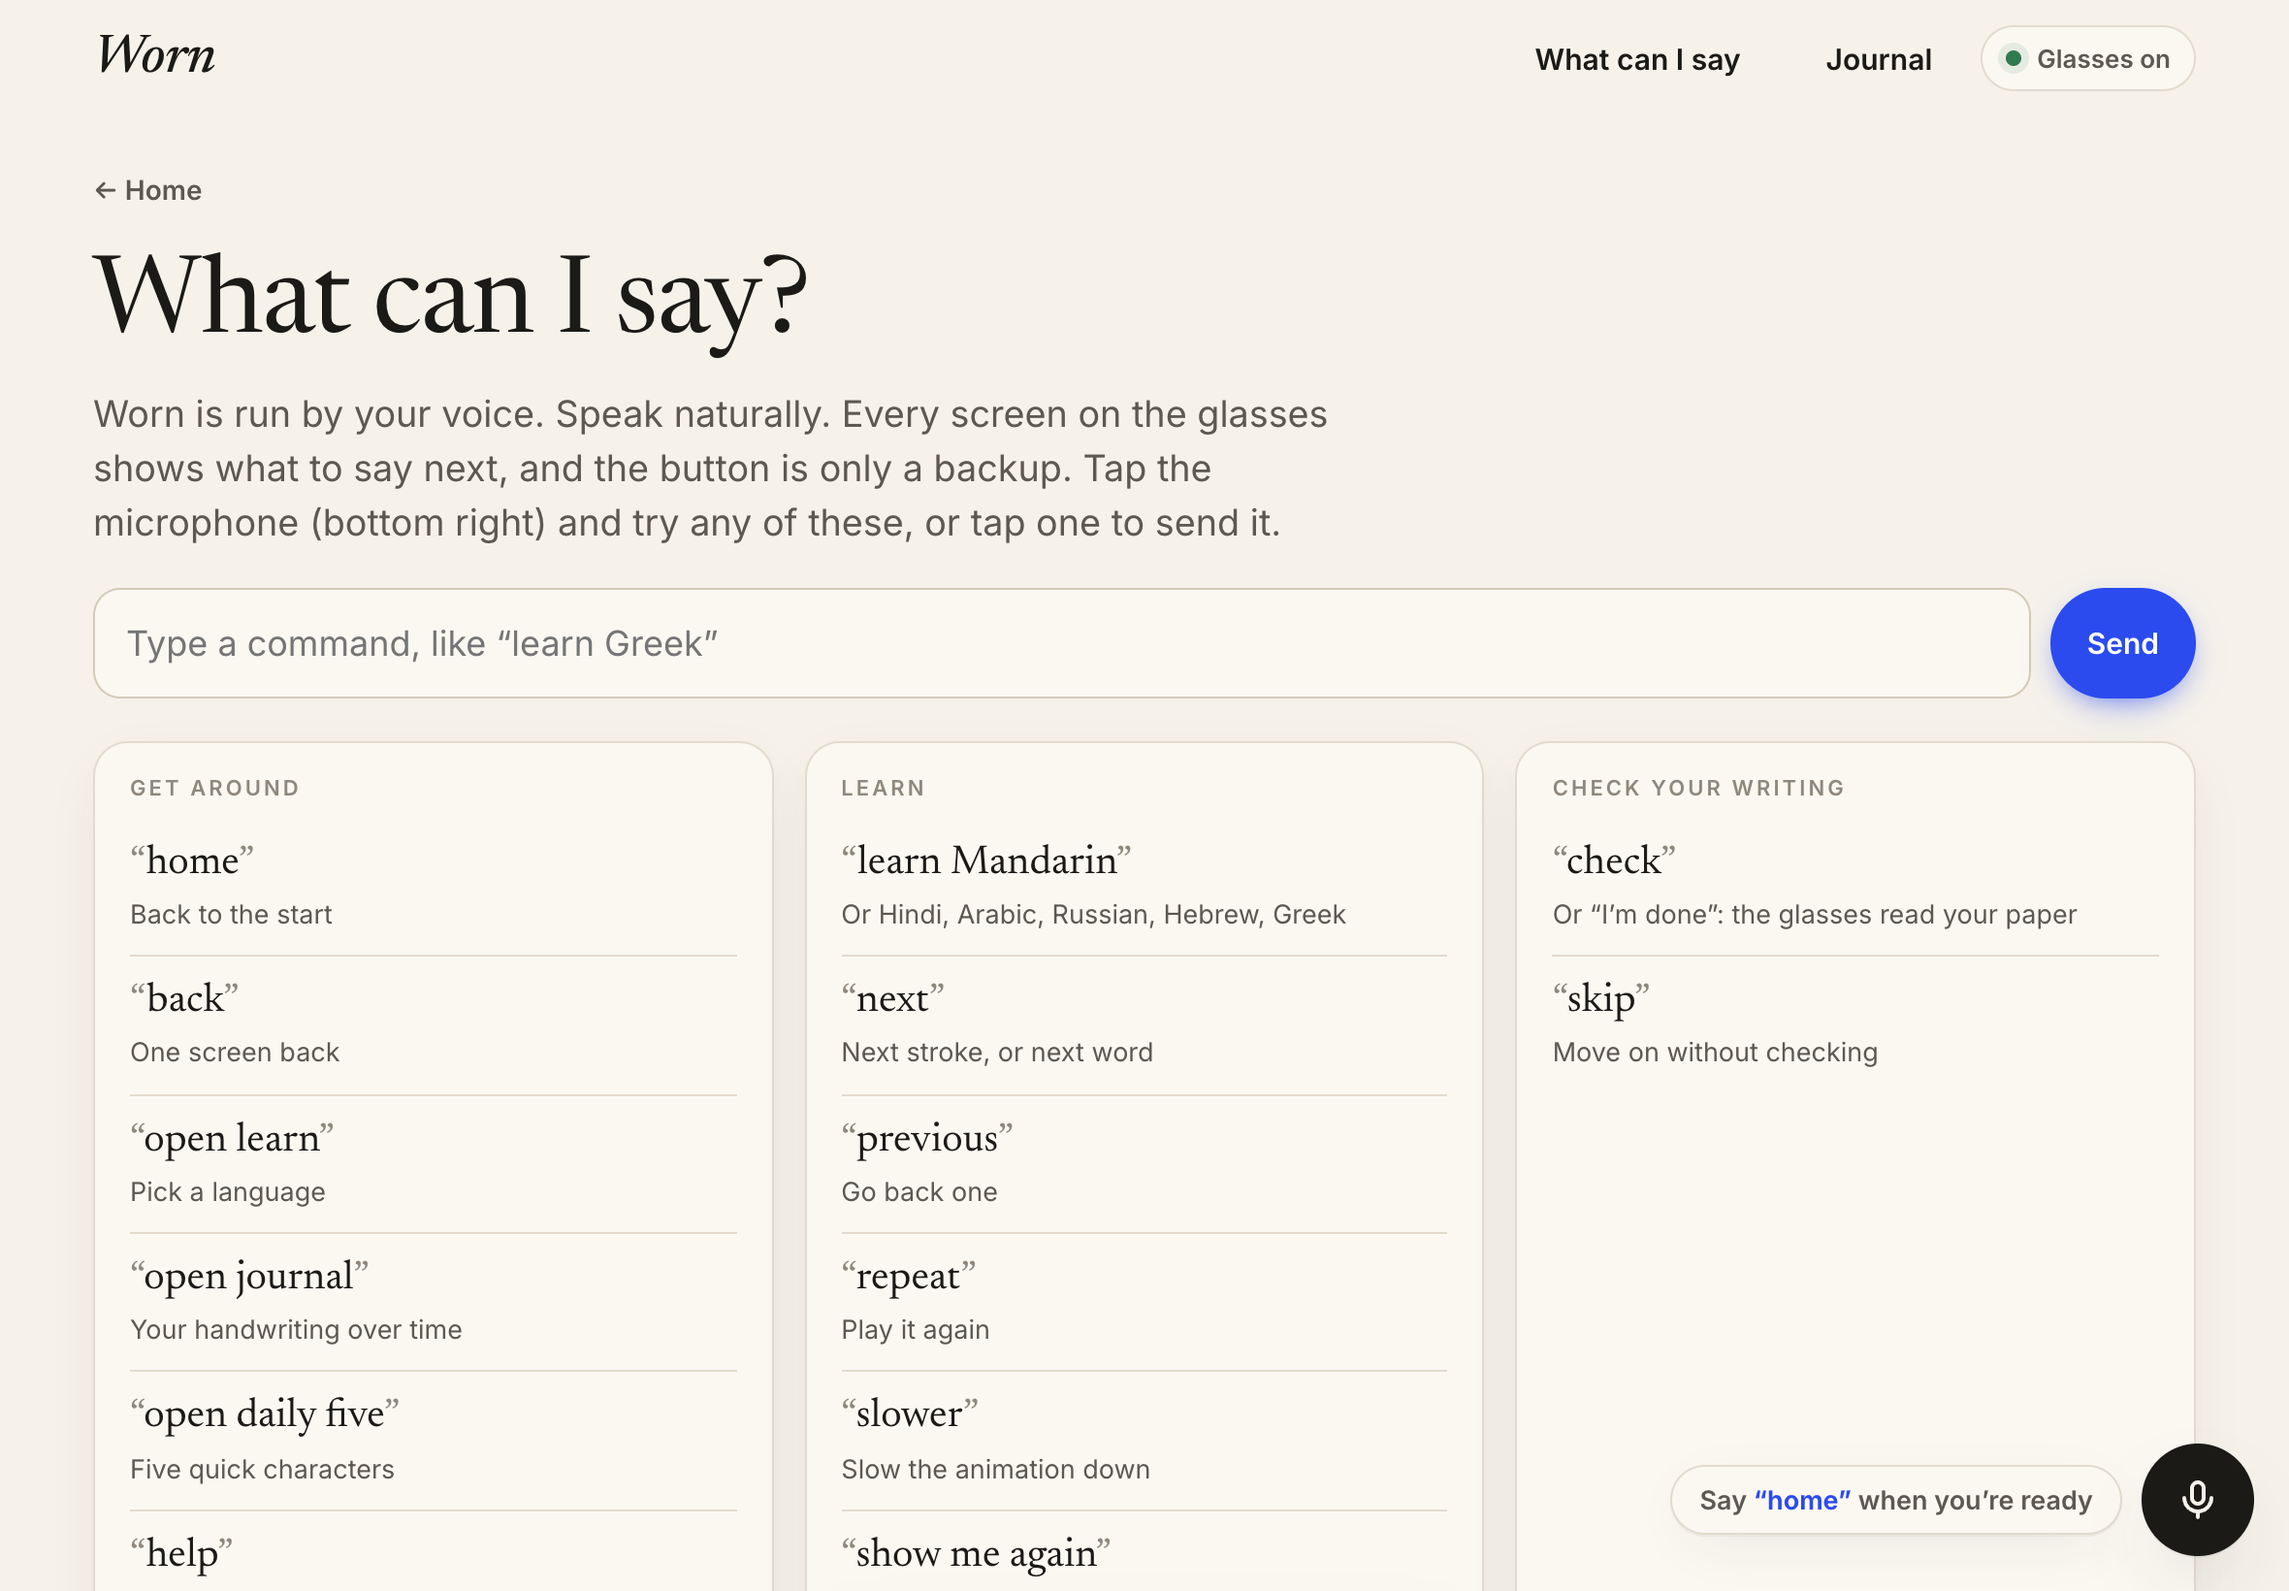
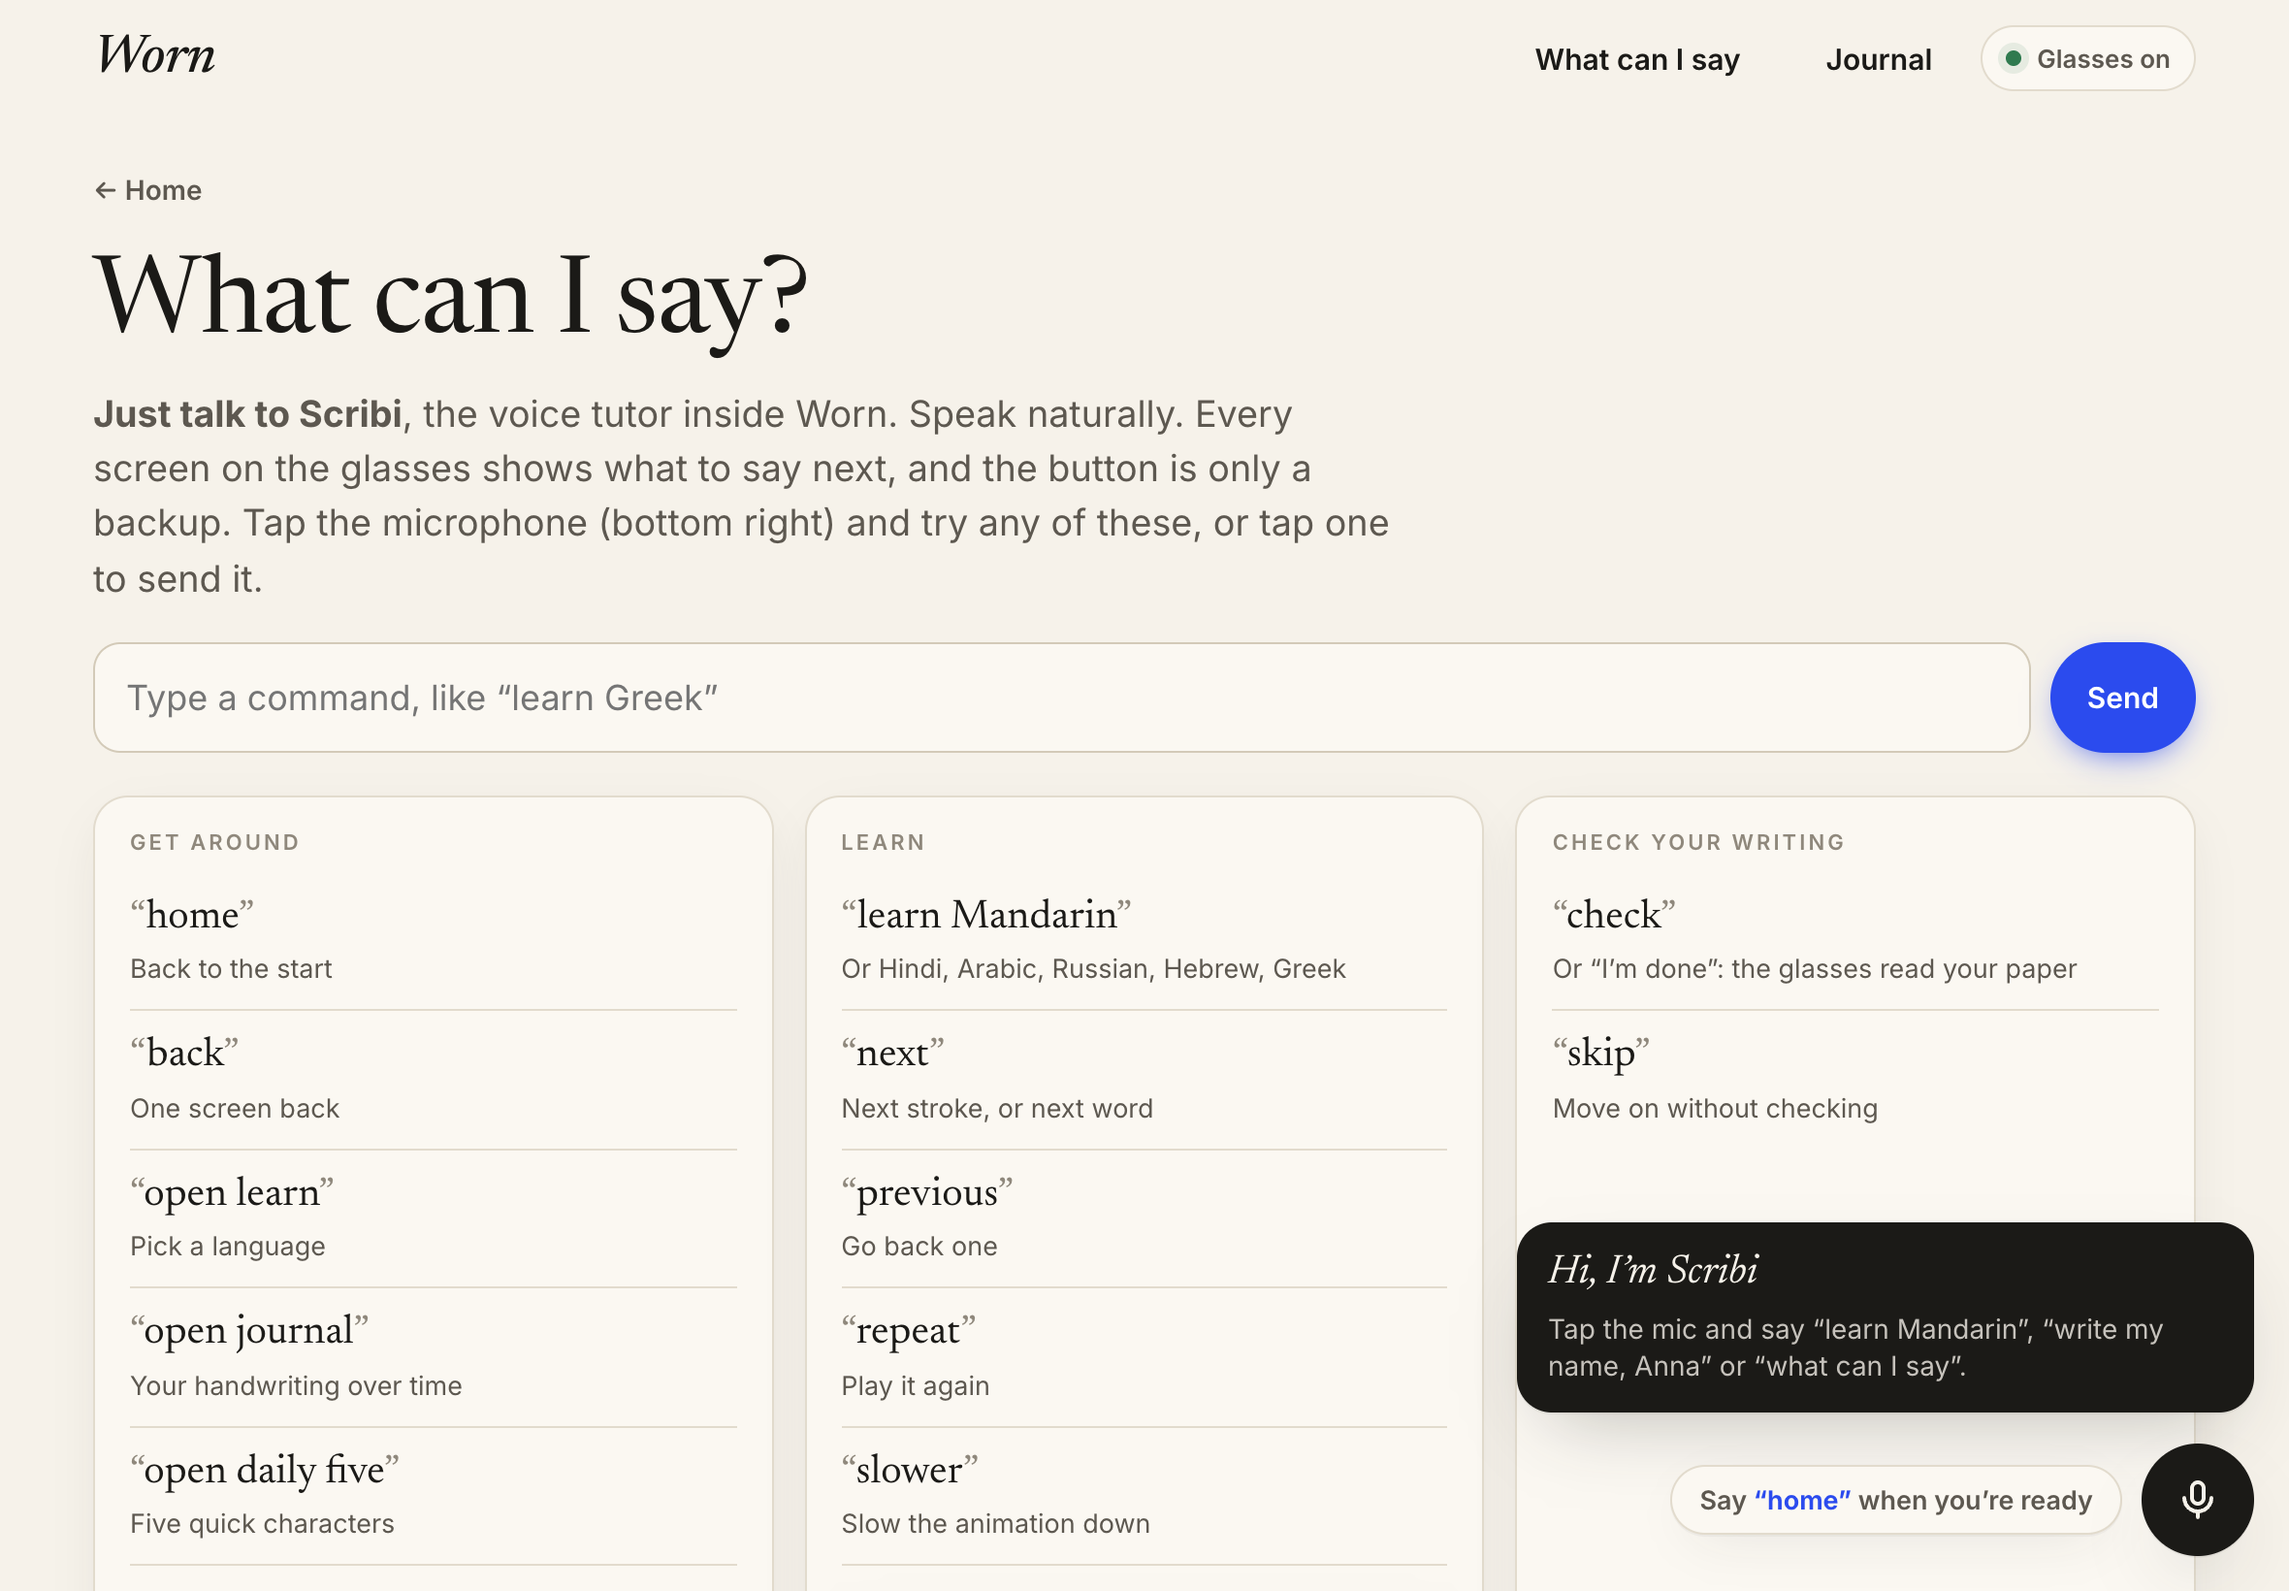
web: the voice tutor is Scribi (tutor panel + latency chip on /live, 'Hi, I'm Scribi' greeting, 'Just talk to Scribi', assistant lines); app stays Worn
Claude-Session: https://claude.ai/code/session_01VhMLrvBXcgXH42XvKtWhmh

diff --git a/web/app.html b/web/app.html
@@ -341,7 +341,7 @@
   <section class="view" id="v-compose">
     <a class="back" href="#/">← Home</a>
     <h1 class="display" style="font-size:clamp(36px,5vw,56px)">Help me write</h1>
-    <p class="lede">Type a short message in English. The tutor writes it in the script you pick, then teaches it to you character by character.</p>
+    <p class="lede">Type a short message in English. Scribi writes it in the script you pick, then teaches it to you character by character.</p>
     <div class="two" style="margin-top:22px">
       <div class="card panel">
         <textarea id="cText" maxlength="120" placeholder="Happy birthday, my friend"></textarea>
@@ -394,7 +394,7 @@
   <section class="view" id="v-help">
     <a class="back" href="#/">← Home</a>
     <h1 class="display" style="font-size:clamp(36px,5vw,56px)">What can I say?</h1>
-    <p class="lede">Worn is run by your voice. Speak naturally. Every screen on the glasses shows what to say next, and the button is only a backup.
+    <p class="lede"><b>Just talk to Scribi</b>, the voice tutor inside Worn. Speak naturally. Every screen on the glasses shows what to say next, and the button is only a backup.
       Tap the microphone (bottom right) and try any of these, or tap one to send it.</p>
     <div class="tryrow"><input type="text" id="vType" placeholder="Type a command, like “learn Greek”" maxlength="80"><button class="btn primary" id="vSend">Send</button></div>
     <div class="cmdgrid" id="cmds"></div>
@@ -405,7 +405,7 @@
 <div class="vbubble" id="vBubble" aria-live="polite"><div class="q" id="vQ"></div><div class="a" id="vA"></div><span class="i" id="vI" hidden></span></div>
 <div class="vdock" id="vDock">
   <div class="vhint" id="vHint"></div>
-  <button class="vmic" id="vMic" aria-label="Talk to Worn" title="Talk to Worn (v)"><svg viewBox="0 0 24 24" fill="none" stroke="currentColor" stroke-width="2" stroke-linecap="round" stroke-linejoin="round"><rect x="9" y="3" width="6" height="11" rx="3"/><path d="M5 11a7 7 0 0 0 14 0M12 18v3"/></svg></button>
+  <button class="vmic" id="vMic" aria-label="Talk to Scribi" title="Talk to Scribi (v)"><svg viewBox="0 0 24 24" fill="none" stroke="currentColor" stroke-width="2" stroke-linecap="round" stroke-linejoin="round"><rect x="9" y="3" width="6" height="11" rx="3"/><path d="M5 11a7 7 0 0 0 14 0M12 18v3"/></svg></button>
 </div>
 <div class="toast" id="toast"></div>
 
@@ -595,7 +595,7 @@
     recState = st;
     $("vMic").classList.toggle("rec", st === "rec");
     $("vMic").classList.toggle("busy", st === "busy");
-    $("vMic").setAttribute("aria-label", st === "rec" ? "Stop and send" : "Talk to Worn");
+    $("vMic").setAttribute("aria-label", st === "rec" ? "Stop and send" : "Talk to Scribi");
     if (st !== "rec") $("vMic").style.setProperty("--lvl", 0);
   }
   function sendVoice(o) {
@@ -603,7 +603,7 @@
     o.screen = SCREEN[curView] || curView;
     return WornVoice.send(API, o).then(act).catch(function (e) {
       bubble(o.text ? "“" + o.text + "”" : "", e.status === 404 ? "Voice isn’t on this server yet." :
-        e.status === 422 && o.text ? "This server only takes spoken commands. Tap the mic." : (e.message || "Couldn’t reach Worn. Try again."));
+        e.status === 422 && o.text ? "This server only takes spoken commands. Tap the mic." : (e.message || "Couldn’t reach Scribi. Try again."));
     }).then(function () { micState("idle"); });
   }
   function stopAndSend() {
@@ -622,7 +622,7 @@
     rec.onlevel = function (l) { $("vMic").style.setProperty("--lvl", l.toFixed(2)); };
     rec.onauto = stopAndSend;
     rec.start().then(function () { micState("rec"); bubble("Listening…", WornVoice.HINTS[curView] || "", "", true); })
-      .catch(function (e) { rec = null; micState("idle"); bubble("", e.name === "NotAllowedError" ? "Allow the microphone to talk to Worn. You can also type on “What can I say”." : e.message); });
+      .catch(function (e) { rec = null; micState("idle"); bubble("", e.name === "NotAllowedError" ? "Allow the microphone to talk to Scribi. You can also type on “What can I say”." : e.message); });
   };
   document.addEventListener("keydown", function (e) {
     if (e.key === "v" && !e.metaKey && !e.ctrlKey && !/input|textarea/i.test((e.target && e.target.tagName) || "")) $("vMic").click();
@@ -639,6 +639,13 @@
     var b = e.target.closest && e.target.closest(".cmd");
     if (b) sendVoice({ text: b.getAttribute("data-say") });
   });
+  // greet once per visit (shown, not spoken: browsers block sound before a tap)
+  try {
+    if (!sessionStorage.getItem("worn.greeted")) {
+      sessionStorage.setItem("worn.greeted", "1");
+      setTimeout(function () { bubble("Hi, I’m Scribi", "Tap the mic and say “learn Mandarin”, “write my name, Anna” or “what can I say”."); }, 900);
+    }
+  } catch (e) {}
   window.wornSay = function (t) { return sendVoice({ text: t }); }; // console / test hook: same path as speaking
   $("vSend").onclick = function () { var t = $("vType").value.trim(); if (t) { $("vType").value = ""; sendVoice({ text: t }); } };
   $("vType").addEventListener("keydown", function (e) { if (e.key === "Enter") $("vSend").click(); });
@@ -953,7 +960,7 @@
       $("cWrite").disabled = false;
     }).catch(function (e) {
       $("cNative").className = "native script faint"; $("cNative").textContent = "It appears here";
-      $("cErr").textContent = e.status === 422 ? e.message + " Or tap one of the ideas above." : "The tutor is busy. Try again in a moment.";
+      $("cErr").textContent = e.status === 422 ? e.message + " Or tap one of the ideas above." : "Scribi is busy. Try again in a moment.";
     }).then(function () { $("cGo").disabled = false; $("cGo").textContent = "Show me how"; });
   };
   $("cWrite").onclick = function () {
@@ -1006,7 +1013,7 @@
       if (!box.children.length) $("nErr").textContent = "I couldn't spell that one. Try another name.";
     }).catch(function (e) {
       box.innerHTML = "";
-      $("nErr").textContent = e.status === 422 ? e.message : "The tutor is busy right now. Try again, or tap a name above.";
+      $("nErr").textContent = e.status === 422 ? e.message : "Scribi is busy right now. Try again, or tap a name above.";
     }).then(function () { $("nGo").disabled = false; });
   };
 

diff --git a/web/live.html b/web/live.html
@@ -224,7 +224,7 @@
         <span class="pill" data-t="tier1" title="Tier 1: new ink on the paper"><small>INK</small><b class="tnum">–</b></span>
         <span class="pill" data-t="tier2" title="Tier 2: stroke matched to the template"><small>STROKE</small><b class="tnum">–</b></span>
         <span class="pill" data-t="tier3" title="Tier 3: vision model reads the character"><small>VISION</small><b class="tnum">–</b></span>
-        <span class="pill" data-t="decide" title="Tutor agent decides and reacts"><small>TUTOR</small><b class="tnum">–</b></span>
+        <span class="pill" data-t="decide" title="Scribi, the tutor, decides and reacts"><small>SCRIBI</small><b class="tnum">–</b></span>
       </span>
       <span class="pill" id="conn"><span class="dot" id="connDot"></span><span id="connText">Glasses</span></span>
     </div>
@@ -233,7 +233,7 @@
   <section id="voice" aria-live="polite">
     <div id="mic" title="Glasses microphone"><svg viewBox="0 0 24 24" fill="none" stroke="currentColor" stroke-width="2" stroke-linecap="round" stroke-linejoin="round"><rect x="9" y="3" width="6" height="11" rx="3"/><path d="M5 11a7 7 0 0 0 14 0M12 18v3"/></svg></div>
     <div id="crumbs"></div>
-    <div id="said"><span class="q" style="color:var(--ink-3);font-style:normal;font-family:var(--ui);font-size:.85em">Say “what can I say” to the glasses</span></div>
+    <div id="said"><span class="q" style="color:var(--ink-3);font-style:normal;font-family:var(--ui);font-size:.85em">Talk to Scribi: say “what can I say”</span></div>
     <div id="hint"><small>SAY</small><span id="hintText">&nbsp;</span></div>
   </section>
 
@@ -261,7 +261,7 @@
     </section>
 
     <section class="panel tutorP">
-      <div class="cap"><span class="eyebrow">Tutor</span><span class="tnum" id="meaningCap">&nbsp;</span></div>
+      <div class="cap"><span class="eyebrow">Scribi</span><span class="tnum" id="meaningCap">&nbsp;</span></div>
       <div class="fit"><div class="square waiting" id="tutor">
         <div class="scoreRow">
           <div id="score" class="tnum">–</div>
@@ -553,7 +553,7 @@
   function renderSteps(steps) {
     var list = $("brain");
     if (!steps.length && !list.children.length) {
-      list.innerHTML = '<li class="empty-note"><span></span><span class="t">The tutor agent’s steps stream here as it reads the paper.</span><span></span></li>';
+      list.innerHTML = '<li class="empty-note"><span></span><span class="t">Scribi’s steps stream here as it reads the paper.</span><span></span></li>';
       return;
     }
     renderStream(list, steps, seenSteps, 12, function (x) {
@@ -604,7 +604,7 @@
       case "slower": return "Slowed the animation down";
       case "speak": return "Said: “" + (d.text || "") + "”";
       case "stroke_match": return "Stroke " + (d.stroke || "") + " matched" + (d.score !== undefined ? " · " + d.score : "");
-      case "grade.start": case "glasses.photo": return d.source === "glasses" ? "Glasses camera took a photo to check" : "Photo sent to the tutor";
+      case "grade.start": case "glasses.photo": return d.source === "glasses" ? "Glasses camera took a photo for Scribi" : "Photo sent to Scribi";
       case "grade.failed": return "Couldn't grade that photo, trying again";
       case "app.open": return "iPhone app opened";
       case "app.connected": return "iPhone connected to the laptop";

diff --git a/web/worn-voice.js b/web/worn-voice.js
@@ -5,7 +5,7 @@
  * WornVoice.recorder()          -> { start(): Promise, stop(): Promise<Blob wav>, cancel(), level }  16 kHz mono WAV, all local.
  *                               Stops by itself after ~1.1 s of quiet once speech was heard, or after 7 s.
  * WornVoice.send(api, {audio, text, screen}) -> Promise<{heard, intent, args, say, nav}>   POST /voice (multipart)
- * WornVoice.say(text)           speaks with the browser's own (on-device) voice
+ * WornVoice.say(text)           speaks Scribi's line with the browser's own (on-device) voice
  */
 (function () {
   "use strict";
@@ -26,7 +26,7 @@
   ];
 
   var HINTS = {
-    home: "Say “learn Mandarin”, “daily five” or “help”",
+    home: "Hi, I’m Scribi. Say “learn Mandarin” or “help”",
     learn: "Say a language, like “learn Greek”",
     lang: "Say “next” to pick a word, or “back”",
     words: "Say “next” to pick a word, or “back”",

diff --git a/web/README.md b/web/README.md
@@ -6,7 +6,7 @@ the backend. Every page polls the backend, so the phone, the glasses and these p
 
 | URL | File | What it is |
 |---|---|---|
-| `/live` (also `/mirror`) | `live.html` | **Judge screen** for an iPad or a big monitor, readable from 2 m. Left: exactly what the glasses show (same strokes, "stroke 3 of 7"). Middle: the latest photo of the paper. Right: score, feedback, the tutor's reaction, a big check and rainbow confetti. Bottom: the agent's steps live (tool, model, ms) and a timeline. Header: latency chips (INK = tier 1, STROKE = tier 2, VISION = tier 3, TUTOR = decide), listening indicator, glasses dot, a "Demo mode" tag when the iPhone is in demo mode, and a milestone banner. |
+| `/live` (also `/mirror`) | `live.html` | **Judge screen** for an iPad or a big monitor, readable from 2 m. Left: exactly what the glasses show (same strokes, "stroke 3 of 7"). Middle: the latest photo of the paper. Right ("Scribi", the voice tutor inside Worn): score, feedback, Scribi's reaction, a big check and rainbow confetti. Bottom: the agent's steps live (tool, model, ms) and a timeline. Header: latency chips (INK = tier 1, STROKE = tier 2, VISION = tier 3, SCRIBI = decide), listening indicator, glasses dot, a "Demo mode" tag when the iPhone is in demo mode, and a milestone banner. |
 | `/glasses` | `glasses.html` | The 640×480 glasses display: black = see-through, bright strokes, result overlay, confetti, sounds. Add `?sound=1` so sounds play without a tap. |
 | `/app` | `app.html` | The learner flow on the web (backup demo + preview): scripts with the script as hero, practice with the stroke animation and audio, dictation, **Help me write**, **Write your name**, **Daily 5**, and **Check with phone camera**. Shows a "continue here" banner when a lesson starts on another device. |
 | `/app/journal` | `journal.html` | Every graded photo, grouped by character: day one next to the latest, every try in between. |
